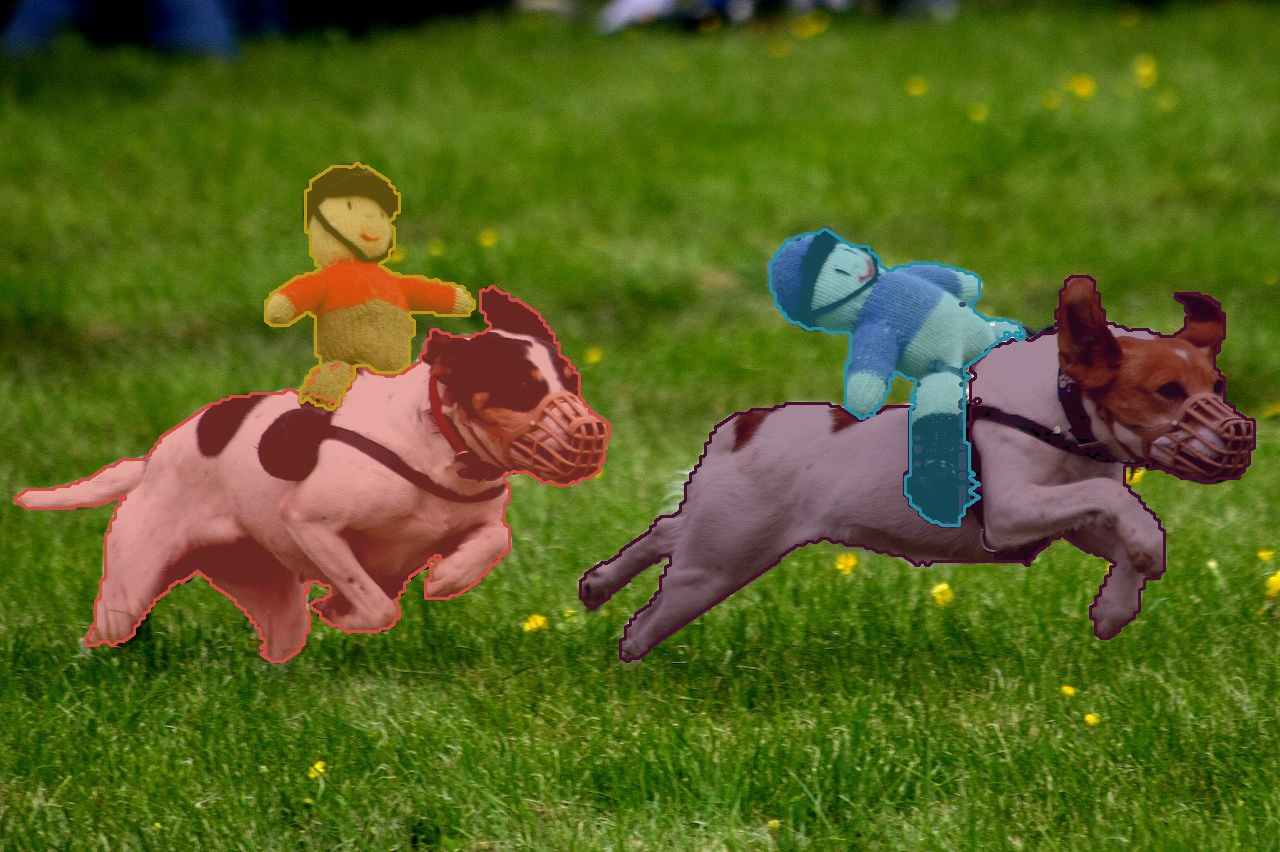
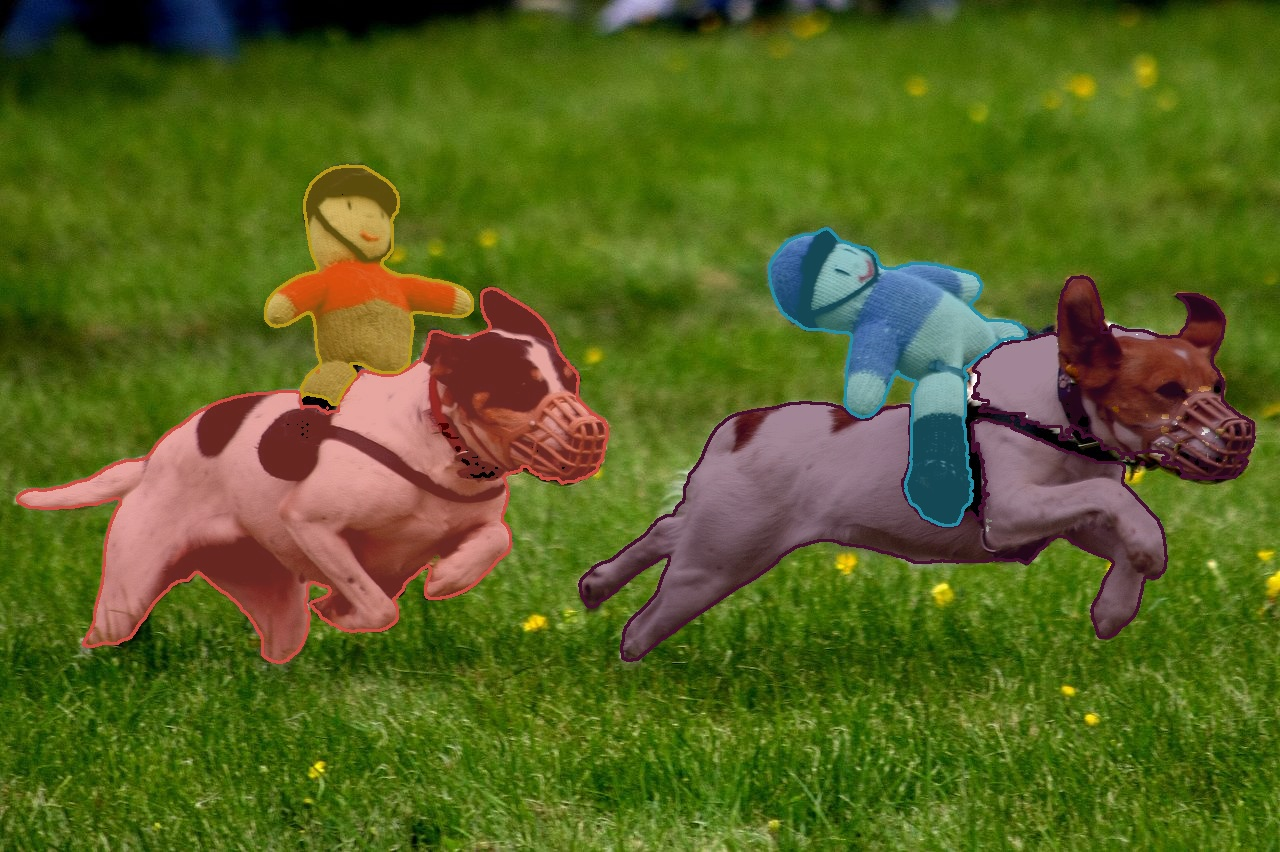
Update changes to exported model
- Only one mask is returned by the model
- The output mask is already resized

diff --git a/sam2/sam2.py b/sam2/sam2.py
@@ -22,12 +22,12 @@ class SAM2Image:
         self.decoder.set_image_size((image.shape[0], image.shape[1]))
         self.reset_points()
 
-    def update_mask(self, select_best: bool = True) -> list[np.ndarray]:
+    def update_mask(self) -> list[np.ndarray]:
         if not self.point_coords:
             return [np.empty(0)]
 
         high_res_feats_0, high_res_feats_1, image_embed = self.image_embeddings
-        masks, _ = self.decoder(image_embed, high_res_feats_0, high_res_feats_1, self.point_coords, self.point_labels, select_best)
+        masks, _ = self.decoder(image_embed, high_res_feats_0, high_res_feats_1, self.point_coords, self.point_labels)
 
         # Set the mask to zeros if no points are present
         for i, mask in enumerate(masks):
@@ -133,34 +133,35 @@ class SAM2ImageDecoder:
     def __call__(self, image_embed: np.ndarray,
                  high_res_feats_0: np.ndarray, high_res_feats_1: np.ndarray,
                  point_coords: list[np.ndarray] | np.ndarray,
-                 point_labels: list[np.ndarray] | np.ndarray, select_best: bool = True) -> tuple[list[np.ndarray], ndarray]:
+                 point_labels: list[np.ndarray] | np.ndarray) -> tuple[list[np.ndarray], ndarray]:
 
-        return self.predict(image_embed, high_res_feats_0, high_res_feats_1, point_coords, point_labels, select_best)
+        return self.predict(image_embed, high_res_feats_0, high_res_feats_1, point_coords, point_labels)
 
     def predict(self, image_embed: np.ndarray,
                  high_res_feats_0: np.ndarray, high_res_feats_1: np.ndarray,
                  point_coords: list[np.ndarray] | np.ndarray,
-                 point_labels: list[np.ndarray] | np.ndarray, select_best: bool = True) -> tuple[list[np.ndarray], ndarray]:
+                 point_labels: list[np.ndarray] | np.ndarray) -> tuple[list[np.ndarray], ndarray]:
 
         inputs = self.prepare_inputs(image_embed, high_res_feats_0, high_res_feats_1, point_coords, point_labels)
 
         outputs = self.infer(inputs)
 
-        return self.process_output(outputs, select_best)
+        return self.process_output(outputs)
 
 
     def prepare_inputs(self, image_embed: np.ndarray,
                        high_res_feats_0: np.ndarray, high_res_feats_1: np.ndarray,
                        point_coords: list[np.ndarray] | np.ndarray,
-                       point_labels: list[np.ndarray] | np.ndarray) -> tuple[np.ndarray, np.ndarray, np.ndarray, np.ndarray, np.ndarray, np.ndarray, np.ndarray]:
+                       point_labels: list[np.ndarray] | np.ndarray) -> tuple[np.ndarray, np.ndarray, np.ndarray, np.ndarray, np.ndarray, np.ndarray, np.ndarray, np.ndarray]:
 
         input_point_coords, input_point_labels = self.prepare_points(point_coords, point_labels)
 
         num_labels = input_point_labels.shape[0]
         mask_input = np.zeros((num_labels, 1, self.encoder_input_size[0] // self.scale_factor, self.encoder_input_size[1] // self.scale_factor), dtype=np.float32)
         has_mask_input = np.array([0], dtype=np.float32)
+        original_size = np.array([self.orig_im_size[0], self.orig_im_size[1]], dtype=np.int32)
 
-        return image_embed, high_res_feats_0, high_res_feats_1, input_point_coords, input_point_labels, mask_input, has_mask_input
+        return image_embed, high_res_feats_0, high_res_feats_1, input_point_coords, input_point_labels, mask_input, has_mask_input, original_size
 
 
     def prepare_points(self, point_coords: list[np.ndarray] | np.ndarray, point_labels: list[np.ndarray] | np.ndarray) -> tuple[np.ndarray, np.ndarray]:
@@ -184,7 +185,7 @@ class SAM2ImageDecoder:
 
         return input_point_coords.astype(np.float32), input_point_labels.astype(np.float32)
 
-    def infer(self, inputs: tuple[np.ndarray, np.ndarray, np.ndarray, np.ndarray, np.ndarray, np.ndarray, np.ndarray]) -> list[np.ndarray]:
+    def infer(self, inputs: tuple[np.ndarray, np.ndarray, np.ndarray, np.ndarray, np.ndarray, np.ndarray, np.ndarray, np.ndarray]) -> list[np.ndarray]:
         start = time.perf_counter()
 
         outputs = self.session.run(self.output_names,
@@ -193,7 +194,7 @@ class SAM2ImageDecoder:
         print(f"infer time: {(time.perf_counter() - start) * 1000:.2f} ms")
         return outputs
 
-    def process_output(self, outputs: list[np.ndarray], select_best: bool) -> tuple[list[ndarray | Any], ndarray[Any, Any]]:
+    def process_output(self, outputs: list[np.ndarray]) -> tuple[list[ndarray | Any], ndarray[Any, Any]]:
 
         scores = outputs[1].squeeze()
         masks = outputs[0]
@@ -202,18 +203,8 @@ class SAM2ImageDecoder:
 
         output_masks = []
         for label_id in range(masks.shape[0]):
-            if select_best:
-                best_mask_id = np.argmax(scores[label_id])
-                label_masks = masks[label_id, best_mask_id, ...]
-                label_masks = cv2.resize(label_masks, (self.orig_im_size[1], self.orig_im_size[0]), interpolation=cv2.INTER_CUBIC)
-                output_masks.append(label_masks)
-            else:
-                label_masks = []
-                for mask_id in range(masks.shape[1]):
-                    label_masks.append(cv2.resize(masks[label_id, mask_id, ...], (self.orig_im_size[1], self.orig_im_size[0]), interpolation=cv2.INTER_CUBIC))
-
-                label_masks = np.stack(label_masks, axis=0)
-                output_masks.append(label_masks)
+            label_masks = masks[label_id, 0, ...]
+            output_masks.append(label_masks)
 
         return output_masks, scores
 
@@ -250,8 +241,7 @@ if __name__ == '__main__':
     point_labels = [np.array([1]), np.array([1,1]), np.array([1]), np.array([1])]
 
     # Decode image
-    masks, scores = sam2_decoder(image_embed, high_res_feats_0, high_res_feats_1, point_coords, point_labels,
-                                 select_best=True)
+    masks, scores = sam2_decoder(image_embed, high_res_feats_0, high_res_feats_1, point_coords, point_labels)
 
     masked_img = draw_masks(img, masks)
 

diff --git a/image_segmentation.py b/image_segmentation.py
@@ -26,7 +26,7 @@ for label_id, (point_coord, point_label) in enumerate(zip(point_coords, point_la
         sam2.add_point((point_coord[i][0], point_coord[i][1]), point_label[i], label_id)
 
     # Decode image
-    masks = sam2.update_mask(select_best=True)
+    masks = sam2.update_mask()
 
     # Draw masks
     masked_img = draw_masks(img, masks)
@@ -34,3 +34,5 @@ for label_id, (point_coord, point_label) in enumerate(zip(point_coords, point_la
     cv2.imshow("masked_img", masked_img)
     if cv2.waitKey(1000) & 0xFF == ord('q'):
         break
+
+cv2.waitKey(0)
